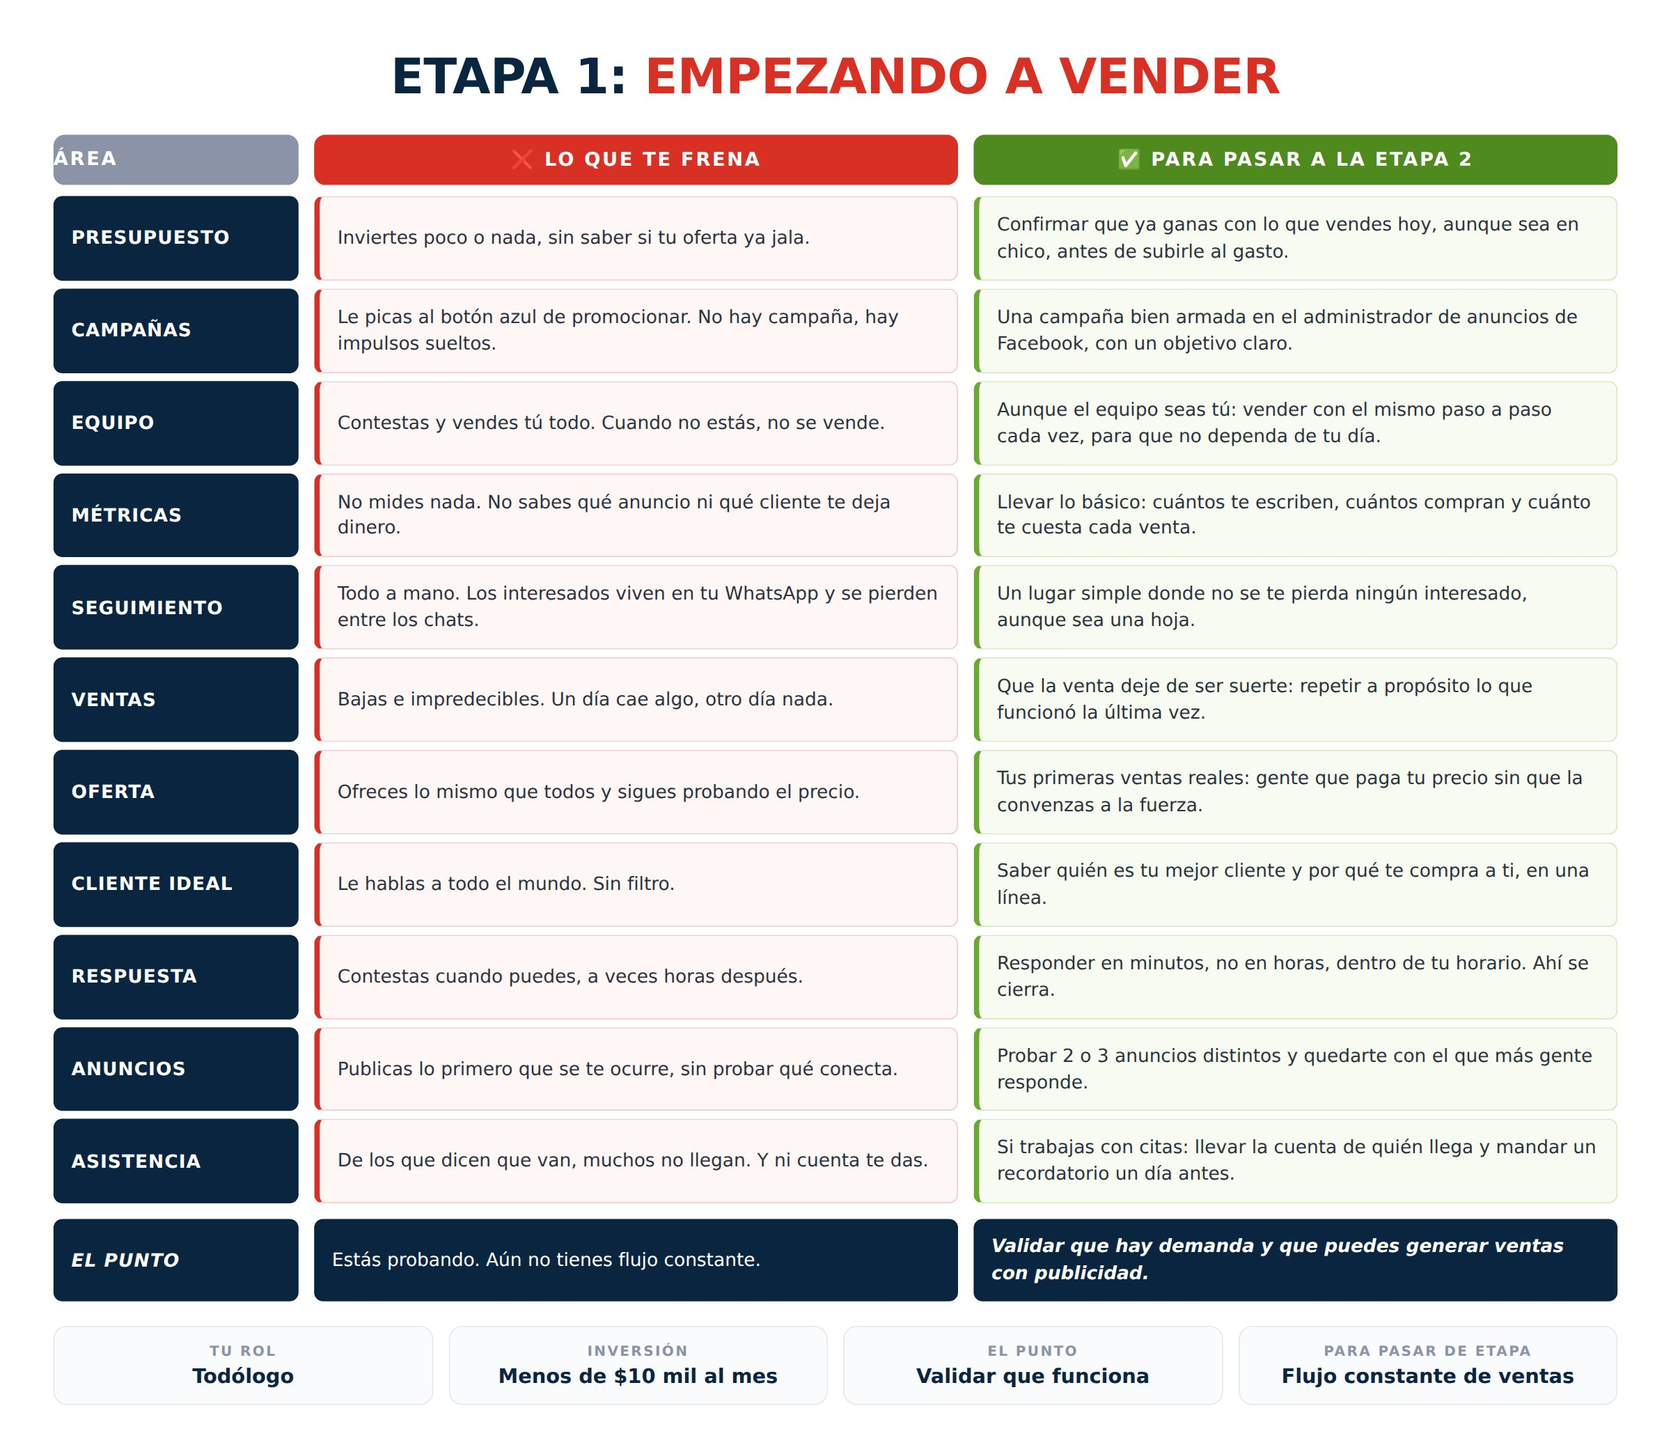
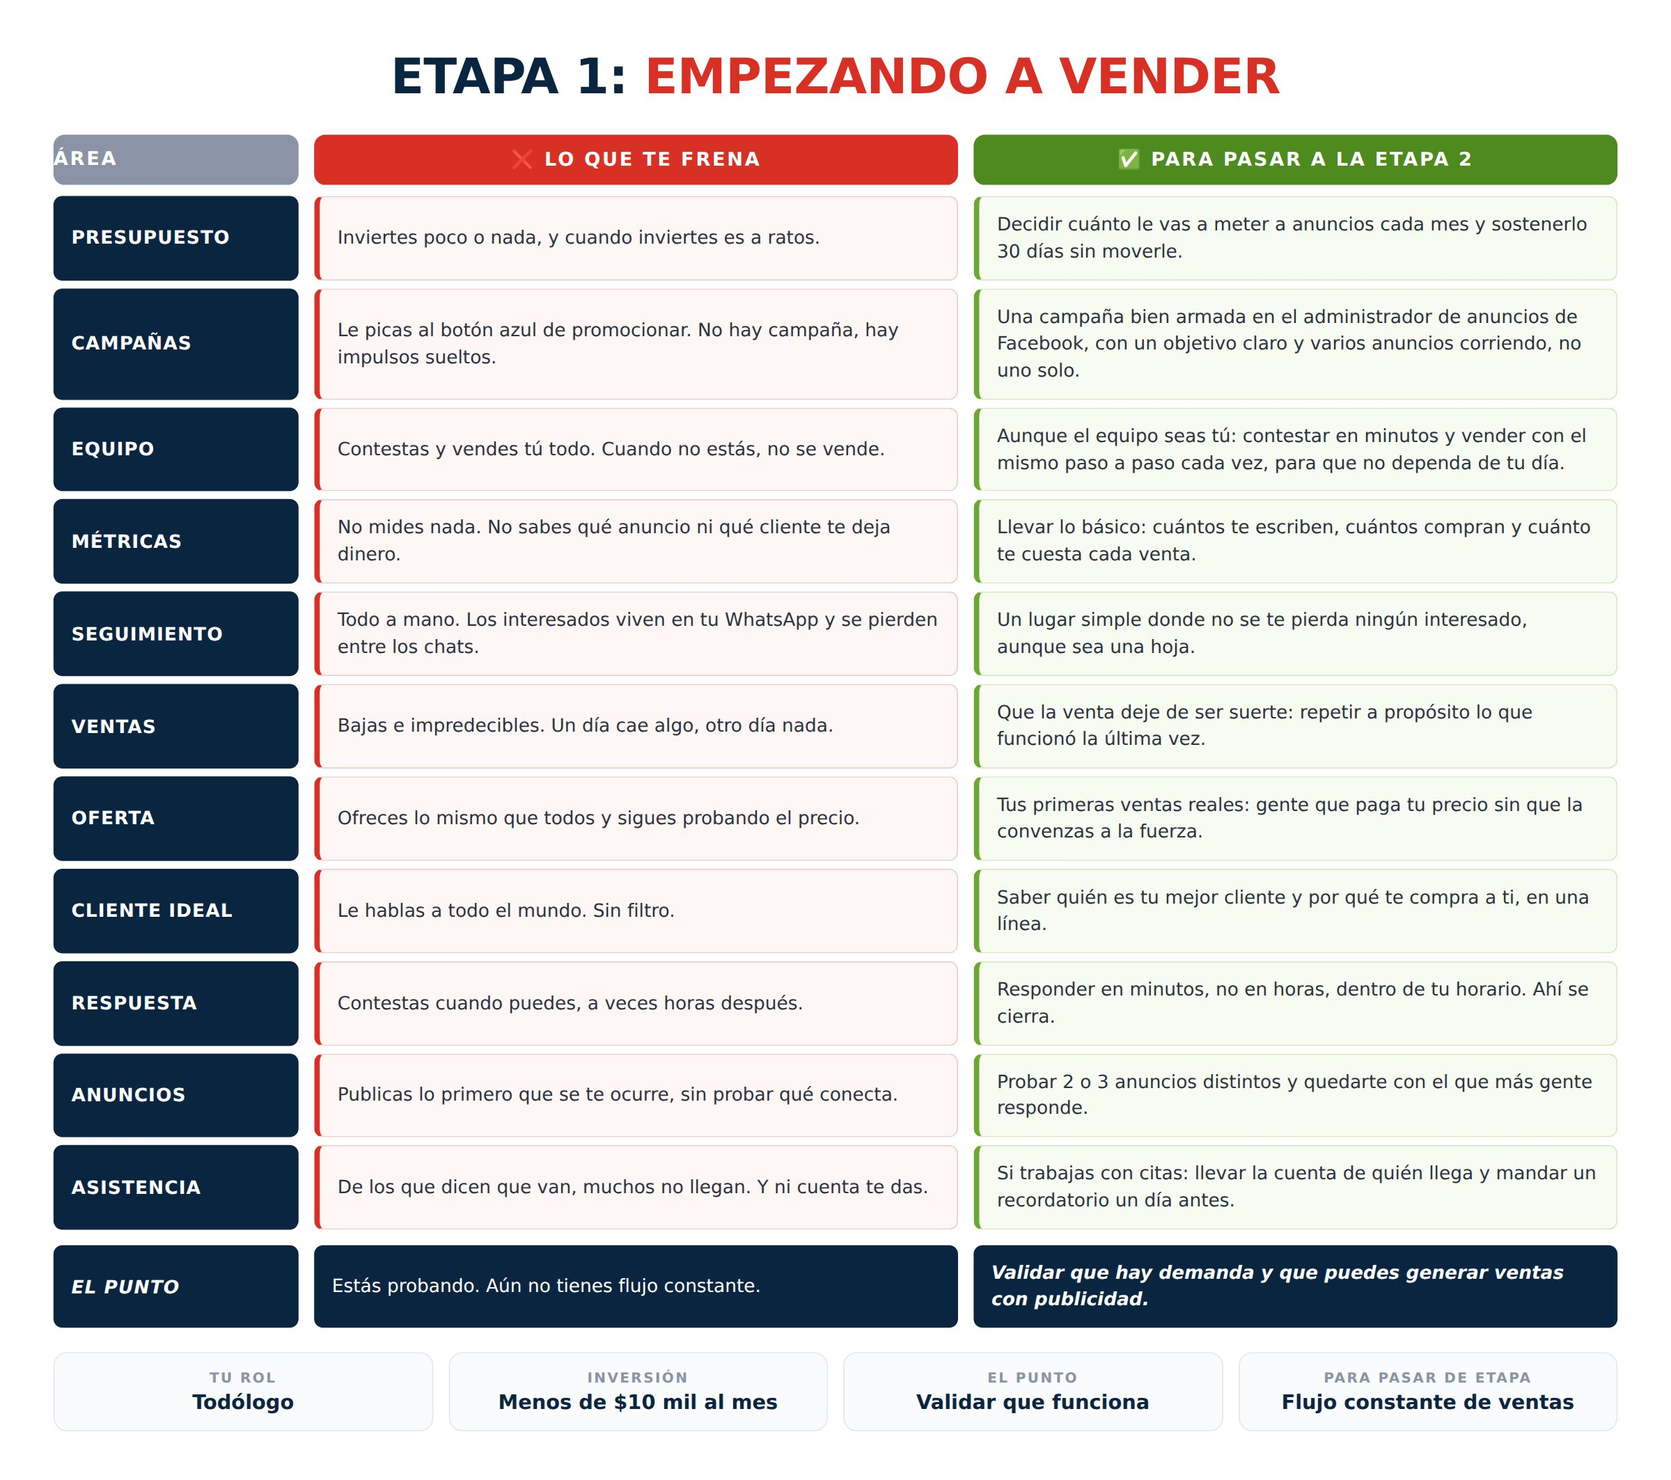
Add files via upload

diff --git a/v32.html b/v32.html
@@ -509,13 +509,13 @@ body.has-bar{padding-bottom:74px}
 #engrane-root .u-bridge{margin:12px 0 0;font-size:14.5px;font-weight:700;color:var(--navy)}
 #engrane-root .guia{margin:22px 0 8px}
 #engrane-root .g-card{background:#fff;border:2px solid var(--navy);border-radius:16px;padding:16px;box-shadow:0 6px 24px rgba(10,37,64,.10)}
-#engrane-root .g-tag{font-size:11px;font-weight:800;letter-spacing:.14em;text-transform:uppercase;color:var(--red);margin-bottom:10px}
-#engrane-root .g-cover{background:linear-gradient(135deg,var(--navy),#123556);border-radius:12px;padding:22px 18px;color:#fff;display:flex;flex-direction:column;gap:6px;margin-bottom:14px;min-height:120px;justify-content:center}
+#engrane-root .g-tag{font-size:11px;font-weight:800;letter-spacing:.14em;text-transform:uppercase;color:var(--red);margin-bottom:10px;text-align:center}
+#engrane-root .g-cover{background:linear-gradient(135deg,var(--navy),#123556);border-radius:10px;padding:22px 18px;color:#fff;display:flex;flex-direction:column;gap:6px;margin:0 auto 18px;min-height:120px;justify-content:center;width:72%;box-shadow:0 18px 40px rgba(10,37,64,.35);border-left:6px solid #071a30;transform:rotate(-2deg)}
 #engrane-root .g-cover-k{font-size:10px;letter-spacing:.2em;opacity:.7;font-weight:800}
 #engrane-root .g-cover-t{font-family:var(--f-head);font-weight:800;font-size:22px;line-height:1.15}
 #engrane-root .g-cover-by{font-size:12px;opacity:.75;margin-top:4px}
-#engrane-root .g-name{font-size:21px;color:var(--navy);margin:0 0 4px;line-height:1.2}
-#engrane-root .g-hook{margin:0 0 10px;font-size:15px;font-style:italic;color:var(--navy);line-height:1.45}
+#engrane-root .g-name{font-size:21px;color:var(--navy);margin:0 0 4px;line-height:1.2;text-align:center}
+#engrane-root .g-hook{margin:0 0 14px;font-size:15px;font-style:italic;color:var(--navy);line-height:1.45;text-align:center}
 #engrane-root .g-for{margin:0 0 6px;padding:10px 12px;background:rgba(10,37,64,.04);border-radius:10px;font-size:14px;line-height:1.5}
 #engrane-root .g-k{font-size:11px;font-weight:800;letter-spacing:.12em;text-transform:uppercase;color:var(--navy);margin:14px 0 4px}
 #engrane-root .g-tx{margin:0;font-size:15px;line-height:1.55;color:var(--ink)}
@@ -525,14 +525,35 @@ body.has-bar{padding-bottom:74px}
 #engrane-root .g-sub{margin:6px 0 0;padding-left:0;list-style:none}
 #engrane-root .g-sub li{position:relative;padding-left:14px;margin:6px 0;font-size:14px;line-height:1.5}
 #engrane-root .g-sub li::before{content:"·";position:absolute;left:0;font-weight:800;color:var(--navy)}
-#engrane-root .g-price{margin:16px 0 6px;display:flex;flex-direction:column;gap:2px}
+#engrane-root .g-price{margin:16px 0 6px;background:var(--navy);color:#fff;border-radius:12px;padding:16px;text-align:center;display:flex;flex-direction:column;gap:4px}
+#engrane-root .g-price .g-reg{font-size:13px;color:rgba(255,255,255,.6);text-decoration:line-through}
 #engrane-root .g-reg{font-size:13px;color:#8a94a6;text-decoration:line-through}
 #engrane-root .g-now{font-size:15px;color:var(--ink)}
 #engrane-root .g-now b{color:var(--red);font-size:22px}
-#engrane-root .g-gar{margin:6px 0 12px;font-size:14px;font-weight:700;color:var(--navy)}
-#engrane-root .g-btn{width:100%}
+#engrane-root .g-now-big{font-size:34px;font-weight:800;color:#fff;line-height:1.1}
+#engrane-root .g-now-sub{font-size:12px;opacity:.85}
+#engrane-root .g-gar-row{display:flex;align-items:flex-start;gap:10px;background:#FFF5F5;border:1px solid #F2C9C9;border-radius:10px;padding:12px;margin:14px 0}
+#engrane-root .g-gar-ic{font-size:20px;line-height:1.3;flex:0 0 auto}
+#engrane-root .g-gar{margin:0;font-size:14px;font-weight:700;color:var(--navy)}
+#engrane-root .g-card .g-btn{width:100%;min-height:52px;font-size:16px;background:var(--red);color:#fff;border-radius:12px;box-shadow:0 8px 20px rgba(217,48,37,.35)}
+#engrane-root .g-card .g-btn.done{background:var(--green);box-shadow:none}
+#engrane-root .g-btn-top{margin:14px 0 0}
 #engrane-root .g-nopay{margin:10px 0 0;font-size:14px;font-weight:700;color:var(--navy);text-align:center}
-#engrane-root .g-status{margin:10px 0 0;font-size:12.5px;color:#5b6675;line-height:1.45}
+#engrane-root .g-status{margin:10px 0 0;font-size:12.5px;color:#5b6675;line-height:1.45;text-align:center}
+#engrane-root .g-callout{background:#FFF5F5;border-left:4px solid var(--red);padding:12px;border-radius:6px;margin:14px 0}
+#engrane-root .g-callout .g-k{margin-top:0;color:var(--red)}
+#engrane-root .g-out{margin:8px 0 0;padding:0;list-style:none}
+#engrane-root .g-out li{position:relative;padding:10px 12px 10px 34px;margin:6px 0;font-size:14.5px;line-height:1.5;background:#fff;border:1px solid var(--line);border-radius:10px}
+#engrane-root .g-out li::before{content:"✅";position:absolute;left:10px;top:10px;font-size:13px}
+#engrane-root .g-stack{margin:8px 0 0;padding:0;list-style:none}
+#engrane-root .g-stack-row{display:flex;align-items:flex-start;gap:10px;background:#F4F6F9;border-radius:10px;padding:12px;margin:8px 0}
+#engrane-root .g-stack-ic{font-size:20px;line-height:1.3;flex:0 0 auto}
+#engrane-root .g-stack-tx{font-size:14.5px;line-height:1.5;color:var(--ink)}
+#engrane-root .g-two{display:flex;flex-direction:column;gap:10px;margin:14px 0}
+@media(min-width:420px){#engrane-root .g-two{flex-direction:row}}
+#engrane-root .g-mini{flex:1;background:rgba(10,37,64,.04);border-radius:10px;padding:10px 12px}
+#engrane-root .g-mini .g-k{margin-top:0}
+#engrane-root .g-tx-sm{margin:0;font-size:13.5px;line-height:1.5;color:var(--ink)}
 #engrane-root .u-ofname{font-size:18px;font-weight:800;margin:2px 0 4px}
 #engrane-root .u-oflead{margin:0 0 8px;font-size:14.5px;opacity:.85}
 #engrane-root .u-price{margin:10px 0 6px;font-size:15px}
@@ -1669,7 +1690,7 @@ const TEETH=[
   hoyPasos:['Escoge a tus últimos 10 compradores y anota qué comparten: edad, sexo, zona y qué te compraron.','Escríbeles por WhatsApp: "Te doy un descuento en tu próxima compra si me contestas dos preguntas":<ul class="u-sub"><li>¿Por qué me compraste a mí?</li><li>¿Qué es lo que más te dio?</li></ul>','Junta las respuestas. Se van a repetir: si 6 de 10 dicen lo mismo, ese es tu motivador real.','Con lo que comparten y lo que se repite, escribe a tu cliente ideal en una línea: quién es y por qué te compra a ti.'],
   why34:'Ya sabes a quién le vendes: lo que casi nadie sabe es <b>quién le deja dinero</b>. No todos los clientes valen igual: unos dejan 3× más, regresan y llegan a sus citas; otros regatean, cancelan y desaparecen. Tus campañas aprenden del que LLEGA, no del que conviene, a menos que tú se lo enseñes.',
   hoy34:'Saca tus 10 mejores clientes del año por dinero dejado (no por frecuencia). Busca qué comparten: servicio de entrada, zona, edad, cómo llegaron. Ese patrón es tu cliente real, y casi nunca es el que tenías en la cabeza.',
-  pasos34:['Saca tus <b>10 mejores clientes del año</b>, por dinero que dejaron, no por caerte bien.','Busca qué comparten: por qué servicio entraron, edad, zona, cómo te encontraron.<table class="reg-mock"><tr><th>Cliente</th><th>Entró por</th><th>Dejó</th></tr><tr><td>Ana</td><td>Servicio B</td><td>$18,400</td></tr><tr><td>Rocío</td><td>Servicio B</td><td>$15,900</td></tr><tr><td>Pau</td><td>Servicio A</td><td>$14,200</td></tr></table>','Escribe el patrón en UNA línea ("mujer 30-45, entra por Servicio B, zona X"). Compáralo con el que tus anuncios traen hoy.','Ahora úsalo: exporta tus <b>100 (o más) mejores clientes</b> (nombre y teléfono bastan) y mándaselos a quien maneja tus campañas:<div class="tell-box">Mándale esto tal cual: <i>"Sube esta lista a Meta como público de clientes, crea un público similar y pruébalo contra el público actual."</i></div> Es la forma más directa de decirle a Meta: tráeme MÁS de éstos, sin un peso extra de presupuesto. (El patrón se encuentra con 10; el público necesita 100+: Meta no acepta listas chicas.)'],reto34:'Si tu anuncio no le habla a ese patrón, estás pagando por traer al equivocado.',ofName:'Tu cliente, tu oferta y tu anuncio',ofPrice:50,ofHook:'Tus clientes ya te dijeron qué venderles y cómo anunciarlo. Está en tu WhatsApp.',ofWin:'Hacer anuncios que le hablen al cliente que sí quieres, no a todo el mundo. Eso cambia quién te escribe: más gente del tipo que buscas y menos de la que te hace perder el tiempo. Y deja de irse dinero en hablarle a quien nunca te iba a comprar. No te prometo un número: depende de tu oferta y de tu mercado.',ofOut:'Cuatro cosas escritas, listas para usar mañana: tu cliente ideal en una línea. Por qué te compra a ti, con sus palabras exactas. Tu oferta en una frase, con precio. Y tu anuncio listo para subir: el texto, el titular y qué imagen ponerle.',ofBullets:['Dos videos cortos:<ul class="g-sub"><li><b>Video 1:</b> cómo distinguir a tu cliente y sacar sus motivadores de tus chats, y cómo armar tu oferta en una frase. Con casos reales de varios giros, incluido qué hacer si tienes menos de 10 compradores.</li><li><b>Video 2:</b> tu anuncio con IA, en vivo. Cómo correr el prompt con tus chats y salir con un anuncio listo para subir.</li></ul>','El prompt: un texto listo que le pegas a Claude (la inteligencia artificial, gratis). Le das tus chats y te va llevando: tu cliente, sus motivadores, tu oferta y tu anuncio. Si solo le das tus opiniones, te pide los chats.','La ficha de una hoja para guardar lo que salió, con una llena de ejemplo.'],ofTime:'Una tarde. Los chats ya los tienes en tu WhatsApp.',ofFor:'Es para ti si vendes por mensaje y todavía le hablas a todo el mundo. No es para ti si ya sabes a quién le vendes y por qué: tu siguiente paso es otro.'},
+  pasos34:['Saca tus <b>10 mejores clientes del año</b>, por dinero que dejaron, no por caerte bien.','Busca qué comparten: por qué servicio entraron, edad, zona, cómo te encontraron.<table class="reg-mock"><tr><th>Cliente</th><th>Entró por</th><th>Dejó</th></tr><tr><td>Ana</td><td>Servicio B</td><td>$18,400</td></tr><tr><td>Rocío</td><td>Servicio B</td><td>$15,900</td></tr><tr><td>Pau</td><td>Servicio A</td><td>$14,200</td></tr></table>','Escribe el patrón en UNA línea ("mujer 30-45, entra por Servicio B, zona X"). Compáralo con el que tus anuncios traen hoy.','Ahora úsalo: exporta tus <b>100 (o más) mejores clientes</b> (nombre y teléfono bastan) y mándaselos a quien maneja tus campañas:<div class="tell-box">Mándale esto tal cual: <i>"Sube esta lista a Meta como público de clientes, crea un público similar y pruébalo contra el público actual."</i></div> Es la forma más directa de decirle a Meta: tráeme MÁS de éstos, sin un peso extra de presupuesto. (El patrón se encuentra con 10; el público necesita 100+: Meta no acepta listas chicas.)'],reto34:'Si tu anuncio no le habla a ese patrón, estás pagando por traer al equivocado.',ofName:'Tu cliente, tu oferta y tu anuncio',ofPrice:50,ofHook:'Tus clientes ya te dijeron qué venderles y cómo anunciarlo. Está en tu WhatsApp.',ofWin:'Hacer anuncios que le hablen al cliente que sí quieres, no a todo el mundo. Eso cambia quién te escribe: más gente del tipo que buscas y menos de la que te hace perder el tiempo. Y deja de irse dinero en hablarle a quien nunca te iba a comprar. No te prometo un número: depende de tu oferta y de tu mercado.',ofOut:'Cuatro cosas escritas, listas para usar mañana: tu cliente ideal en una línea. Por qué te compra a ti, con sus palabras exactas. Tu oferta en una frase, con precio. Y tu anuncio listo para subir: el texto, el titular y qué imagen ponerle.',ofOutList:['Tu cliente ideal en una línea.','Por qué te compra a ti, con sus palabras exactas.','Tu oferta en una frase, con precio.','Tu anuncio listo para subir: el texto, el titular y qué imagen ponerle.'],ofBullets:['Dos videos cortos:<ul class="g-sub"><li><b>Video 1:</b> cómo distinguir a tu cliente y sacar sus motivadores de tus chats, y cómo armar tu oferta en una frase. Con casos reales de varios giros, incluido qué hacer si tienes menos de 10 compradores.</li><li><b>Video 2:</b> tu anuncio con IA, en vivo. Cómo correr el prompt con tus chats y salir con un anuncio listo para subir.</li></ul>','El prompt: un texto listo que le pegas a Claude (la inteligencia artificial, gratis). Le das tus chats y te va llevando: tu cliente, sus motivadores, tu oferta y tu anuncio. Si solo le das tus opiniones, te pide los chats.','La ficha de una hoja para guardar lo que salió, con una llena de ejemplo.'],ofTime:'Una tarde. Los chats ya los tienes en tu WhatsApp.',ofFor:'Es para ti si vendes por mensaje y todavía le hablas a todo el mundo. No es para ti si ya sabes a quién le vendes y por qué: tu siguiente paso es otro.'},
  {l:'Equipo de ventas',sig:'EQUIPO',g:0,x:'Quién contesta y cierra tus mensajes.',def:'Es quien contesta cuando llega un lead. Con criterio para calificar, seguir y cerrar, o solo contestando preguntas.',
   why:'El <b>78% compra al primero que responde bien</b>. Sin guion ni proceso, cada quien contesta como puede, y tus ventas dependen del humor del día.',
   hoy:'Lee los últimos 10 chats de tu equipo: ¿en cuántos ofrecieron agendar o cerrar, y en cuántos solo contestaron la pregunta y esperaron?',
@@ -1912,9 +1933,9 @@ function laLectura(real,tg,tr){
 }
 /* ---- Checklist Etapa 1 (mapa en lista) ---- */
 const CHK1=[
- {area:'Presupuesto',text:'Confirmar que ya ganas con lo que vendes hoy, aunque sea en chico, antes de subirle al gasto.',ej:'Vendes 20 piezas al mes a $500 y te quedan $150 de cada una. Eso ya da para meterle $3 mil a anuncios sin perder.'},
- {area:'Campañas',text:'Una campaña bien armada en el administrador de anuncios de Facebook, con un objetivo claro.',ej:'En vez de "Promocionar publicación", una campaña en el administrador de anuncios con objetivo "Mensajes", un anuncio y un presupuesto diario fijo.'},
- {area:'Equipo',text:'Aunque el equipo seas tú: vender con el mismo paso a paso cada vez, para que no dependa de tu día.',ej:'Cada vez que alguien escribe: saludo, una pregunta para saber qué necesita, precio, y ofrecer cerrar. Siempre igual, aunque estés cansado.'},
+ {area:'Presupuesto',text:'Decidir cuánto le vas a meter a anuncios cada mes y sostenerlo 30 días sin moverle.',ej:'Decides $3 mil al mes ($100 al día) y no le subes ni le bajas en 30 días, aunque un día no lleguen mensajes. Así sabes si funciona o no.'},
+ {area:'Campañas',text:'Una campaña bien armada en el administrador de anuncios de Facebook, con un objetivo claro y varios anuncios corriendo, no uno solo.',ej:'En vez de "Promocionar publicación" con un solo anuncio: una campaña con objetivo "Mensajes", 3 anuncios distintos adentro y un presupuesto diario fijo.'},
+ {area:'Equipo',text:'Aunque el equipo seas tú: contestar en minutos y vender con el mismo paso a paso cada vez, para que no dependa de tu día.',ej:'Cada vez que alguien escribe: contestas antes de 10 minutos, saludo, una pregunta para saber qué necesita, precio, y ofrecer cerrar. Siempre igual, aunque estés cansado.'},
  {area:'Métricas',text:'Llevar lo básico: cuántos te escriben, cuántos compran y cuánto te cuesta cada venta.',ej:'Una hoja con tres columnas: cuántos te escribieron esta semana, cuántos compraron y cuánto gastaste en anuncios. Divides y ya sabes lo que te cuesta cada venta.'},
  {area:'Seguimiento',text:'Un lugar simple donde no se te pierda ningún interesado, aunque sea una hoja.',ej:'Una hoja de Excel con nombre, teléfono, qué preguntó y si compró. Se llena cada noche en 5 minutos.'},
  {area:'Ventas',text:'Que la venta deje de ser suerte: repetir a propósito lo que funcionó la última vez.',ej:'La semana que más vendiste, ¿qué hiciste distinto? ¿Qué anuncio, qué precio, qué mensaje? Eso se repite a propósito la siguiente.'},
@@ -2058,16 +2079,30 @@ function render(levels){
   if(t.ofName) h+=`<p class="u-bridge">¿Prefieres que te lo dé resuelto? Abajo está la guía.</p>`;
   u.innerHTML=h; u.style.display='';
   if(t.ofName){
-   const bullets=(t.ofBullets||[]).map(x=>`<li>${x}</li>`).join('');
+   const bullets=(t.ofBullets||[]).map(x=>{
+    let ic='✓';
+    if(/^Dos videos/.test(x)) ic='🎥'; else if(/^El prompt/.test(x)) ic='🤖'; else if(/^La ficha/.test(x)) ic='📄';
+    return `<li class="g-stack-row"><span class="g-stack-ic">${ic}</span><span class="g-stack-tx">${x}</span></li>`;
+   }).join('');
    let gh=`<div class="g-card"><div class="g-tag">LA GUÍA DE ETAPA ${et}</div><div class="g-cover"><span class="g-cover-k">GUÍA</span><span class="g-cover-t">${t.ofName}</span><span class="g-cover-by">Anwar Sepúlveda</span></div><h2 class="g-name">${t.ofName}</h2>`;
    if(t.ofHook) gh+=`<p class="g-hook">${t.ofHook}</p>`;
-   if(t.ofWin) gh+=`<div class="g-k">Qué vas a poder hacer</div><p class="g-tx">${t.ofWin}</p>`;
-   if(t.ofFor) gh+=`<p class="g-for">${t.ofFor}</p>`;
-   if(t.ofOut) gh+=`<div class="g-k">Con qué sales</div><p class="g-tx">${t.ofOut}</p>`;
-   gh+=`<div class="g-k">${t.ofOut?'Qué trae':'Trae video, hoja y una IA lista para usar'}</div><ul class="g-ul">${bullets}</ul>`;
-   if(t.ofTime) gh+=`<div class="g-k">Cuánto tardas</div><p class="g-tx">${t.ofTime}</p>`;
-   gh+=`<div class="g-price"><span class="g-reg">Precio regular: $${full} pesos</span><span class="g-now">Precio especial de lanzamiento para la lista de espera: <b>$${t.ofPrice} pesos</b></span></div>`;
-   gh+=`<p class="g-gar">Si la ves y no te sirve, me escribes y te regreso tus $${t.ofPrice} pesos.</p>`;
+   gh+=`<button class="lq ${t.s} g-btn g-btn-top" data-wl="${slug(t.l)}">Apartar mi lugar en la lista →</button>`;
+   gh+=`<p class="g-nopay">Hoy no pagas nada. Cuando salga, te aviso a tu correo y ahí decides.</p>`;
+   if(t.ofWin) gh+=`<div class="g-callout"><div class="g-k">Qué vas a poder hacer</div><p class="g-tx">${t.ofWin}</p></div>`;
+   if(t.ofFor||t.ofTime){
+    gh+=`<div class="g-two">`;
+    if(t.ofFor) gh+=`<div class="g-mini"><div class="g-k">Para quién es</div><p class="g-tx-sm">${t.ofFor}</p></div>`;
+    if(t.ofTime) gh+=`<div class="g-mini"><div class="g-k">Cuánto tardas</div><p class="g-tx-sm">${t.ofTime}</p></div>`;
+    gh+=`</div>`;
+   }
+   if(t.ofOut){
+    gh+=`<div class="g-k">Con qué sales</div>`;
+    if(t.ofOutList&&t.ofOutList.length) gh+=`<p class="g-tx">Cuatro cosas escritas, listas para usar mañana:</p><ul class="g-out">${t.ofOutList.map(x=>`<li>${x}</li>`).join('')}</ul>`;
+    else gh+=`<p class="g-tx">${t.ofOut}</p>`;
+   }
+   gh+=`<div class="g-k">${t.ofOut?'Qué trae':'Trae video, hoja y una IA lista para usar'}</div><ul class="g-stack">${bullets}</ul>`;
+   gh+=`<div class="g-price"><span class="g-reg">Precio regular: $${full} pesos</span><span class="g-now-big">$${t.ofPrice} pesos</span><span class="g-now-sub">Precio especial de lanzamiento para la lista de espera</span></div>`;
+   gh+=`<div class="g-gar-row"><span class="g-gar-ic">🛡</span><p class="g-gar">Si la ves y no te sirve, me escribes y te regreso tus $${t.ofPrice} pesos.</p></div>`;
    gh+=`<button class="lq ${t.s} g-btn" data-wl="${slug(t.l)}">Apartar mi lugar en la lista →</button>`;
    gh+=`<p class="g-nopay">Hoy no pagas nada. Cuando salga, te aviso a tu correo y ahí decides.</p><p class="g-status">Las guías salen una por una, en el orden que la lista de espera decide: tu lugar cuenta para que la tuya salga antes.</p></div>`;
    g.innerHTML=gh; g.style.display='';
